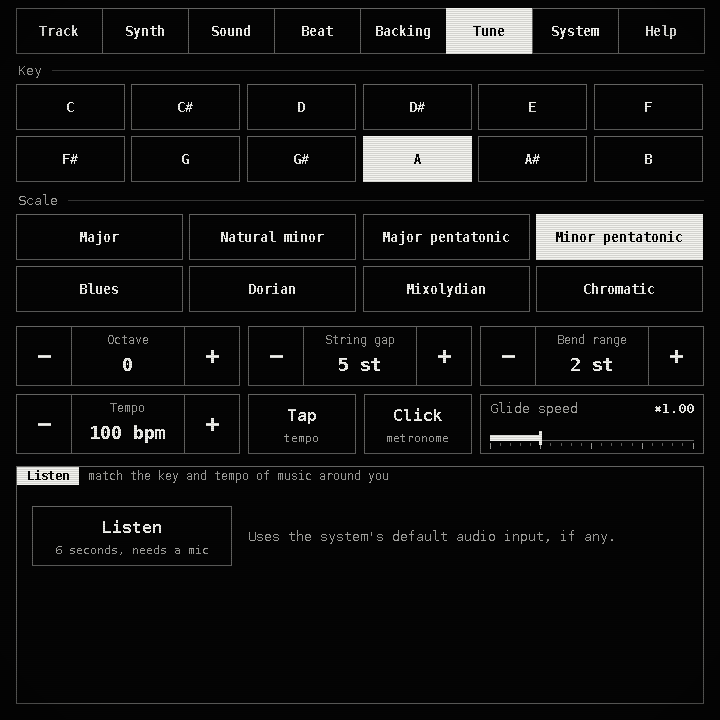
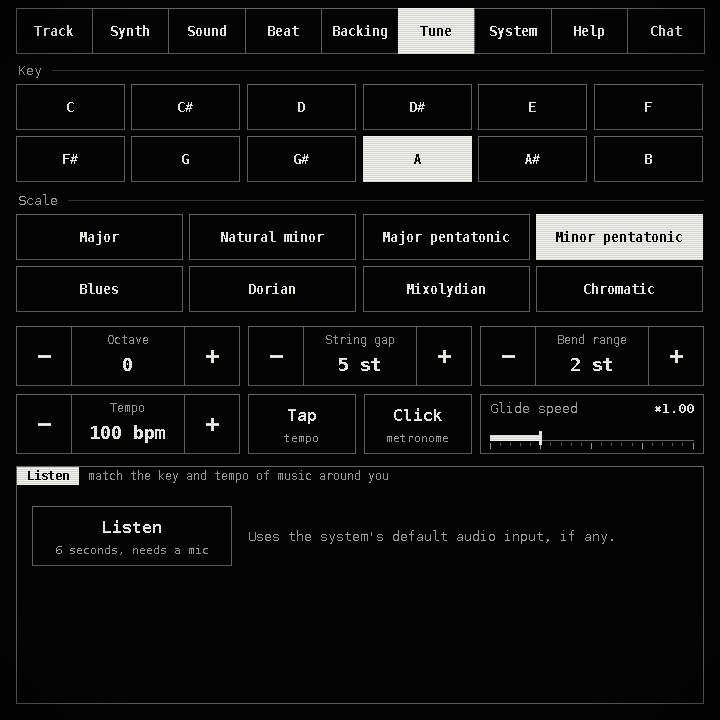
Docs: CONTROL.md, guide chapter on chat, status for 0.10.0, new pictures

Changed region(s): [[0.1528, 0.0, 0.8556, 0.0917], [0.8861, 0.0306, 0.9472, 0.0611], [0.0611, 0.0306, 0.1222, 0.0611]]

diff --git a/docs/CONTROL.md b/docs/CONTROL.md
@@ -1,0 +1,209 @@
+# The control socket
+
+venv-vrequency opens a local Unix socket so an AI copilot (an agent such as Claude Code, through an MCP
+server that speaks this protocol) can play the synth, edit it and chat with the player in the app's Chat
+page. It is **on by default**; start with `vrequency --no-control` to switch it off.
+
+- **Where**: `$XDG_RUNTIME_DIR/vrequency.sock`; if that is not set, `$VREQUENCY_HOME/control.sock` (default
+  `~/vrequency/control.sock`). `$VREQUENCY_CONTROL_SOCKET` overrides both.
+- **Who**: a Unix socket with permissions `0600`: only the same user can connect. There is no network
+  listener of any kind. The file is removed when the app quits. A leftover file from a crashed run is
+  replaced at the next start; a socket something still answers on is never taken over.
+- **How**: newline-delimited JSON, one object per line, in both directions. Up to 8 clients at once. A request
+  line longer than 1 MiB is refused.
+
+```
+-> {"id":1,"cmd":"note","string":1,"degree":2,"dur_ms":400}
+<- {"id":1,"ok":true,"result":{"played":[{"string":1,"midi":57,"hz":220.0,"id":1024}]}}
+-> {"id":2,"cmd":"note","string":9,"degree":0}
+<- {"id":2,"ok":false,"error":"'string' must be between 0 and 2"}
+```
+
+`id` can be any JSON value and is returned unchanged (`null` if the request had none or was not valid JSON).
+Every request is answered, whatever it contains.
+
+**Safety.** Every command runs on the app's GUI thread and reaches the audio thread through the same lock-free
+queue the keyboard uses; the audio thread is never blocked. Every argument is validated (type and range);
+a bad one gets an error and changes nothing. Numbers are never clamped silently except where a command
+says so (`set_param`). Sound goes through the engine's own limits: voice limit of 28, the limiter and soft
+clip stay on the output. Changes are applied by the audio thread a few milliseconds after the reply, so
+`state` read straight after a command may still show the old value.
+
+Strings are numbered **0 = lowest** (the bottom key row), **1 = middle**, **2 = highest**. A *degree* is a
+step of the current scale counted from the string's first key: `0` is the string's first key (`Z`, `A` or
+`Q`), `1` its second, `-1` the note below, `5` can be past an octave. A *midi* note is an exact pitch
+(12 to 120) that ignores the scale. Notes played over the socket are separate from the player's keys on
+the same string: both can sound, and a key pressed on a sounding string slides it, as always.
+
+## Commands
+
+### state
+Everything at a glance: `page`, `sound` (name, `slot` 1-10 or null, `slots`, `favourites`, `params` by key),
+`scale` (name, index, root, octave), `tempo`, `volume`, `looper`, `beat` (playing, rec, kit, `steps` per drum
+as 16 characters), `backing` (playing, mode, style, `chords`, `degrees`), `track` (clips, lanes with placements,
+playing, bars, exporting), `playing`, `voices`, `toast` (the last message the app showed), `chat`
+(`listening`, `last_seq`, `unread`) and `chat_tail` (last ten messages).
+```
+{"id":1,"cmd":"state"}
+```
+
+### note
+Play one note. `string` 0-2 required; exactly one of `degree` (-48..48) or `midi` (12..120); `dur_ms`
+20..30000 (default 500); `velocity` 0..1 (default 1).
+```
+{"id":2,"cmd":"note","string":0,"degree":0,"dur_ms":800}
+{"id":3,"cmd":"note","string":2,"midi":81,"velocity":0.6}
+```
+
+### notes / chord
+Several notes at once. `notes`: a list of objects like `note`'s (each may have its own `dur_ms` and `velocity`;
+defaults at the top level). Or `chord` with `degrees` or `midis`: up to 3 values, put on strings 0, 1, 2 in order.
+```
+{"id":4,"cmd":"notes","notes":[{"string":0,"degree":0},{"string":2,"midi":72}],"dur_ms":600}
+{"id":5,"cmd":"chord","degrees":[0,2,4],"dur_ms":1200}
+```
+
+### slide
+Play `from`, then glide to `to` on the same string (at the sound's own glide time). `string`, `from`, `to`
+required; `unit` `"degree"` (default) or `"midi"`; `ms` 50..30000 total (default 600); `velocity`.
+```
+{"id":6,"cmd":"slide","string":1,"from":0,"to":3,"ms":900}
+```
+
+### release / panic
+`release` lets go of the notes played over the socket (optionally one `string`). `panic` silences everything,
+as `Backspace` does (also stops beat, backing, loop and track).
+```
+{"id":7,"cmd":"release","string":1}
+{"id":8,"cmd":"panic"}
+```
+
+### set_param / get_params
+`set_param`: `name` is a key from `get_params` (`cutoff`, `attack`, `wave1`, `reverbmix`...), `value` is
+**clamped** to the parameter's range (stepped ones rounded); the reply says the value used and whether it was
+clamped. `get_params` lists every parameter with its value, range and default.
+```
+{"id":9,"cmd":"set_param","name":"cutoff","value":1200}
+{"id":10,"cmd":"get_params"}
+```
+
+### sound
+`slot` 1-10, or `name`: a favourite's name, `"random"`, `"mutate"` or `"undo"`.
+```
+{"id":11,"cmd":"sound","slot":2}
+{"id":12,"cmd":"sound","name":"Haze"}
+{"id":13,"cmd":"sound","name":"mutate"}
+```
+
+### save_favourite
+Saves the current sound as a favourite under `name` (1-24 characters).
+```
+{"id":14,"cmd":"save_favourite","name":"Rook's pad"}
+```
+
+### scale
+`name` (major, minor, majpent, minpent, blues, dorian, mixolydian, chromatic, or the full names such as
+"Minor pentatonic") and/or `root` (a note name `A`, `C#`, `Bb`, or 0-11).
+```
+{"id":15,"cmd":"scale","name":"dorian","root":"D"}
+```
+
+### tempo, octave, bend, sustain
+`tempo`: `bpm` 40-240. `octave`: `value` -3..3 or `delta`. `bend`: `value` -1..1 (held until changed), optional
+`ms` to spring back after that long. `sustain`: `on` true/false.
+```
+{"id":16,"cmd":"tempo","bpm":96}
+{"id":17,"cmd":"octave","delta":1}
+{"id":18,"cmd":"bend","value":0.5,"ms":400}
+{"id":19,"cmd":"sustain","on":true}
+```
+
+### loop
+`action`: `record` (the pedal: count-in, record, or finish/overdub), `play`, `stop`, `clear`, `undo`.
+`stop` on a loop that is not playing and `play` with nothing recorded are refused.
+```
+{"id":20,"cmd":"loop","action":"record"}
+```
+
+### backing
+`chords`: a new progression of 1-8 chords, each 1-7 or a numeral `"I"`..`"VII"` (replaces the old one and
+starts it). Or `action`: `play`, `stop`, `clear`, `remove_last`. Optional: `style` (sustain, pulse, arp up,
+arp down, arp up-dn), `seventh` (bool), `beats` per chord 1-8.
+```
+{"id":21,"cmd":"backing","chords":["I","vi",4,5],"style":"pulse"}
+{"id":22,"cmd":"backing","action":"stop"}
+```
+
+### beat
+Any of: `kit` (soft, crunchy, glitchy), `set_step` (one `{drum, step, on}` or a list; `drum` 0-7 or a name:
+kick, snare, hat, openhat, clap, rim, tom, cowbell; `step` 0-15, `on` default true), `hit` (`{drum}` or just
+the drum: plays it now), `action` `play` | `stop` | `clear`.
+```
+{"id":23,"cmd":"beat","kit":"crunchy","set_step":[{"drum":"kick","step":0},{"drum":"snare","step":4}],"action":"play"}
+{"id":24,"cmd":"beat","hit":{"drum":"clap"}}
+```
+
+### track
+`action`: `keep` (copies the live beat, chords and loop to the shelf), `place` (`clip` index, `bar` 0-63,
+optional `lane` 0-3 = beat, chords, loop A, loop B), `play`, `stop`, `clear` (empties the track), `export`
+(asynchronous: replies at once with the `path` the WAV will have; it is complete when `state.track.exporting`
+is false).
+```
+{"id":25,"cmd":"track","action":"keep"}
+{"id":26,"cmd":"track","action":"place","clip":0,"bar":0}
+{"id":27,"cmd":"track","action":"export"}
+```
+
+### page
+`name`: track, synth, sound, beat, backing, tune, system, help or chat.
+```
+{"id":28,"cmd":"page","name":"chat"}
+```
+
+### session
+`action` save or load, `name` (letters, digits, `-`, `_`), in the app's sessions folder.
+```
+{"id":29,"cmd":"session","action":"save","name":"jam-1"}
+```
+
+### screenshot
+Writes a 720x720 PNG of the screen to the temporary folder and returns its `path`. The newest six are kept.
+```
+{"id":30,"cmd":"screenshot"}
+```
+
+## Chat
+
+Messages have a `seq` (1, 2, 3...), `from`, `text`, `kind` (`say`, `tip`, `ask`), `ts` (ms since the epoch) and
+`user` (true when the player typed it, who is shown as `you`). The last 200 are kept in the state file, so the
+history survives restarts and the numbering carries on.
+
+### chat_say
+`text` 1-2000 characters; `from` (default `"rook"`, up to 16 characters; `"you"` is the player and refused);
+`kind` `say` (default), `tip` or `ask`. Shows on the Chat page and, while the player is on another page, in a
+two-line ticker at the bottom of the screen for a few seconds (it takes no key and no touch).
+```
+{"id":31,"cmd":"chat_say","from":"claude","kind":"ask","text":"Want a slower tempo?"}
+```
+
+### chat_poll
+`since` (default 0), optional `limit`. Returns every message with `seq` > `since`, from both sides, and
+`last_seq`. Counts as "the copilot is listening" for 45 s.
+```
+{"id":32,"cmd":"chat_poll","since":12}
+```
+
+### chat_wait
+Long poll: `since`, `timeout_ms` 0-30000 (default 25000). The reply comes as soon as a message **typed by the player**
+with `seq` > `since` exists, with `timed_out` false; otherwise at the timeout with `timed_out` true and an
+empty `messages` list. Nothing else is blocked meanwhile, and several clients can wait at once.
+```
+{"id":33,"cmd":"chat_wait","since":14,"timeout_ms":20000}
+```
+While any chat_wait is pending, the Chat page says `copilot: listening`.
+
+## Errors you may see
+
+`bad JSON: ...`, `a request must be a JSON object`, `missing 'cmd'`, `unknown command 'x'`,
+`'string' must be between 0 and 2`, `'x' must be a number` / `a string` / `true or false`, `missing 'x'`,
+`request line too long`. A refused request changes nothing.

diff --git a/docs/STATUS.md b/docs/STATUS.md
@@ -1,12 +1,12 @@
 # Status — what works, what is unproven, what is missing
 
-Version 0.9.0, 2026-11-13 (0.8.1 plus a lane mixer on the Track page: a level, mute, solo and meter for each of the four lanes, saved with the track and heard in an export. 0.8.1 was 0.8.0 plus a fix: the scope no longer takes a whole processor core to draw while sound plays. 0.8.0: 0.7.0 plus a sound picker on the Track page: a placed clip can play as one of eighteen new Keys, Guitar and Bass sounds, any of your own sounds or another kit, with an octave shift. 0.7.0 was 0.6.0 plus a Track page for arranging kept beats, chords and loops on lanes, with chop, cycle and export; the tabs now start with Track and the Play page is called Synth. 0.6.0 added the Beat page and Play last, 0.5.0 five sine-based "dream" sounds, 0.4.0 the Glitch touch-pad mapping). "Tested" below means an automated test measured it; it does **not** mean a
+Version 0.10.0, 2026-11-13 (0.9.0 plus a Chat page and a control socket, so an AI copilot can play and edit the app live and talk with the player. 0.9.0 was 0.8.1 plus a lane mixer on the Track page: a level, mute, solo and meter for each of the four lanes, saved with the track and heard in an export. 0.8.1 was 0.8.0 plus a fix: the scope no longer takes a whole processor core to draw while sound plays. 0.8.0: 0.7.0 plus a sound picker on the Track page: a placed clip can play as one of eighteen new Keys, Guitar and Bass sounds, any of your own sounds or another kit, with an octave shift. 0.7.0 was 0.6.0 plus a Track page for arranging kept beats, chords and loops on lanes, with chop, cycle and export; the tabs now start with Track and the Play page is called Synth. 0.6.0 added the Beat page and Play last, 0.5.0 five sine-based "dream" sounds, 0.4.0 the Glitch touch-pad mapping). "Tested" below means an automated test measured it; it does **not** mean a
 person heard it or pressed a physical key. Those checks are listed separately.
 
 ## Working and covered by automated tests
 
 `vrequency_tests` renders audio offline and measures it (517 checks). `vrequency --selftest` drives the real
-application with real key and touch events while the real audio thread runs (173 checks).
+application with real key and touch events while the real audio thread runs (227 checks).
 
 | Area | What the tests establish |
 |---|---|
@@ -28,6 +28,7 @@ application with real key and touch events while the real audio thread runs (173
 | Sound picker (app) | `I` and the Sound button open it on the kind the clip plays now; arrows change kind and stop at the ends; number keys and cells pick; a pick is one undo step and leaves the recorded sound in the clip; picking while nothing plays starts the clip alone, it is heard, and the beat lane stays silent meanwhile; a bass pick drops an octave; arrows and the stepper move the octave and stop at two; Only this one / Every; Backspace and As recorded; `Space` stops Hear; `Enter` and Done close it and stop the clip; a beat clip gets only the kits and no octave; undo and redo; picks read back the same from the state file |
 | Lane mixer (engine) | A new track plays every lane as recorded; a lane at 40 comes out a quarter of the level (12 dB down) for a loop lane, the chords lane and the beat lane alike, measured on the output, while the other lanes stay as they were; a muted lane is gone and its meter still; a soloed lane is the only one heard, and a muted lane stays quiet even when soloed; level 100 is 1.56 times (about 4 dB); every lane's meter moves while it plays |
 | Lane mixer (app) | `X` opens it in place of the tools; number keys and Left/Right choose a lane; Up/Down move the level by five; `0` puts it back to 80; M mutes and S solos; a fader drag sets the level and is one undo step; Reset; undo and redo of every change; `Esc` closes it; opening the sound picker closes it; the mix reads back the same from the state file |
+| Control socket and chat | The socket starts, is `0600`, replaces a stale file from a crashed run and refuses to take over a live one; two clients at once; replies carry the request id. A note over the socket has the right pitch (measured with the scope on the output: string 0 degree 0 = 110 Hz, a degree on the middle string follows the scale, MIDI 81 = 880 Hz); it lets go by itself after its duration; the player's own keys slide it; panic empties every voice; a slide moves the pitch. 105 requests cover every command with a good and a refused argument (note, notes, chord, slide, release, panic, set_param, get_params, sound, save_favourite, scale, tempo, octave, bend, sustain, loop, backing, beat, track including a keep/place/play/export round trip, page, session, screenshot, the chat commands); state shows what they did; the export writes a WAV; the screenshot is a 720x720 PNG. Chat: chat_say shows on the page, in the ticker on another page, as an unread count and in `state`; letters typed with synthetic key events fill the input line and play no string, Backspace edits, Enter (or the Send button) sends; a pending chat_wait is answered the moment the message is sent (15 ms measured) while other clients are served, and times out with an empty list; chat_poll returns both directions; `Ctrl`+`Y` goes to Chat and back, `Esc` leaves; the history is in the state file and only the last 200 are kept. Hostile input: garbage, a JSON array, a 40,000-digit number, a 2 MiB line, deeply nested JSON, several requests in one write, a client that disconnects mid-line, and 7,623 requests with one wrongly typed or out-of-range argument for every command: all answered, none crashed, no events dropped, output inside full scale. The socket file is removed on stop |
 | Drawing and saving | With three notes sounding, every page redraws well inside a 40 ms frame (slowest in the test: Synth, about 11 ms); a kept clip is in the state file 2.5 s later without anything else being pressed |
 | Listening back | Play last starts the system player on the newest recording and the same button stops it (the test does not check what comes out of the speaker) |
 | Live control | XY filter and vibrato mappings, pitch bend, sustain; touch on a string plays and slides (synthetic touch events) |
@@ -36,7 +37,7 @@ application with real key and touch events while the real audio thread runs (173
 | Key handling | Auto-repeat does not retrigger; no input events dropped |
 | Listen | Key and tempo found on synthetic test music; silence is refused rather than guessed; noise gives low confidence |
 
-Implemented but with **no automated test**: loops following a tempo change, bends and XY moves inside loops,
+Implemented but with **no automated test**: the scroll marker and finger-drag scrolling of the Chat history, typing characters other than letters and digits (the test sends keys without text), the ticker's two-line wrap on long messages (drawn on two pictures only), `--no-control`, the real default socket path in `$XDG_RUNTIME_DIR`, loops following a tempo change, bends and XY moves inside loops,
 voice stealing at the 28-voice limit (benchmarked for speed, not checked for clicks), releasing all notes
 when the window loses focus, the scope's frequency readout, trigger and auto-ranging (checked by eye on rendered pictures only), the Glitch colour streaks (seen on one rendered picture only), Glitch moves replayed from inside a loop, pulse and up/down arpeggio styles, the pads lighting up when a drum sounds, the beat while a loop is recording or playing, old `keymap.json` files picking up the new key bindings, the on-screen sound editor's individual controls. On the Track page: the picture of each clip (beat dots, chord names, note dashes) and the moving play line (looked at on two rendered pictures only), the sound picker's Synth kind (your slots and favourites) and its page-turning cell, Hear while the whole track is already playing, choosing another clip while the picker is open, picked sounds inside an exported file and inside a session file (only the state file is checked), following the play line past bar 8, the shelf's second page, keeping more than 40 clips, dragging a loop between Loop A and Loop B, sound changes and touch-pad moves recorded inside a loop clip, editing the track while it plays, what an exported file sounds like (only its length and that it is not silent are checked), and Play last on an exported file.
 
@@ -56,6 +57,13 @@ when the window loses focus, the scope's frequency readout, trigger and auto-ran
 | Output latency of the built-in speaker | about 200 ms (Bluetooth; see HARDWARE.md) |
 
 ## Needs a person — NOT verified
+
+Added in 0.10.0 (the copilot):
+- **Typing feel on the Q20.** Typing was tested with synthetic key events only. Whether the real keyboard types
+  comfortably (Shift for capitals, the symbol layer for digits and punctuation, key repeat), and whether `Ctrl`+`Y` reaches the app, is unproven.
+- **The ticker at arm's length.** Two lines of 13 px raster text at the bottom of the screen for seven seconds: is it readable
+  without stopping playing, and is covering the bottom row of buttons acceptable?
+- **A real copilot.** The protocol was exercised only by the self-test's own client. The MCP server written by someone else has not been tried against it.
 
 Nobody has yet confirmed any of these. See the test list at the end of this file.
 

diff --git a/README.md b/README.md
@@ -24,7 +24,7 @@ its own volts/div and time/div (they follow the signal and never change the pitc
 frequency and level. Touching it is the X-Y sound control.
 
 More pictures: [Track](docs/shots/10-track.png), [Chop](docs/shots/11-chop.png), [Picking a sound for a clip](docs/shots/12-sound.png), [Mixer](docs/shots/13-mixer.png), [Sound](docs/shots/1-sound.png), [Backing](docs/shots/2-backing.png), [Tune](docs/shots/3-tune.png),
-[System](docs/shots/4-system.png), [Help](docs/shots/5-help.png), [Key test](docs/shots/6-keytest.png), [Glitch](docs/shots/7-glitch.png), [Beat](docs/shots/9-beat.png).
+[System](docs/shots/4-system.png), [Help](docs/shots/5-help.png), [Key test](docs/shots/6-keytest.png), [Glitch](docs/shots/7-glitch.png), [Beat](docs/shots/9-beat.png), [Chat with a copilot](docs/shots/14-chat.png).
 
 ## Play it in ten seconds
 
@@ -74,6 +74,8 @@ The full how-to is [docs/GUIDE.md](docs/GUIDE.md). A short version is built in: 
   shift, for every copy of the clip or just one. **Mix** gives each lane a level, a mute, a solo and a
   meter, saved with the track and heard in an export. Keys follow the usual shortcuts of desktop music programs (`Ctrl`+`T` split,
   `Ctrl`+`J` join, `Ctrl`+`R` repeat, `Ctrl`+`X` `C` `V`, `Ctrl`+`Z`, `Space` play).
+- **Copilot**: a Chat tab and a local control socket let an AI agent play and edit the app live while you talk to it
+  (`Ctrl`+`Y` jumps to the chat). Local Unix socket only, off with `--no-control`. See [docs/CONTROL.md](docs/CONTROL.md).
 - **Looper**: event-based (notes, slides, bends, XY moves, sound changes), count-in, bar-snapped,
   up to 64 bars, six layers, undo, stop/start, clear. Each layer keeps its own sound. Follows tempo.
 - **Saving**: sounds, favourites, sessions (settings + sounds + backing + loops + beat + track), WAV export and play-back of the last recording
@@ -99,7 +101,7 @@ Tests:
 ```bash
 ./build/vrequency_tests                                   # 517 engine checks (offline rendering)
 ./build/vrequency_tests --bench                           # CPU at full polyphony
-QT_QPA_PLATFORM=offscreen ./build/vrequency --selftest    # 173 checks through the real app + audio thread
+QT_QPA_PLATFORM=offscreen ./build/vrequency --selftest    # 227 checks through the real app + audio thread
 QT_QPA_PLATFORM=offscreen ./build/vrequency --audio null --render docs/shots   # redraw the pictures
 ```
 
@@ -109,8 +111,9 @@ QT_QPA_PLATFORM=offscreen ./build/vrequency --audio null --render docs/shots   #
 |---|---|
 | `core/` | The engine, no GUI or device dependencies: `voice.h` (synth voice), `fx.h`, `scale.h`, `instrument.*` (strings, backing, looper, mixer), `drums.*` (the three kits), `track.cpp` (clips, lanes, chopping, picked sounds, track playback), `sounds.*` (the Keys, Guitar and Bass shelf), `presets.*` (sounds, randomiser), `analysis.*` (key/tempo) |
 | `audio/` | PipeWire backend (C), ALSA fallback, silent clock |
-| `app/` | Qt 6 interface, one custom-painted widget: `mainwindow.*` (pages, input, actions), `trackpage.cpp` (the Track page), `scope.cpp` (the oscilloscope), `palette.h`, key map, files, self-test |
+| `app/` | Qt 6 interface, one custom-painted widget: `mainwindow.*` (pages, input, actions), `trackpage.cpp` (the Track page), `scope.cpp` (the oscilloscope), `chatpage.cpp` (the Chat page and ticker), `control.*` (the control socket), `palette.h`, key map, files, self-test |
 | `tests/` | Engine tests and benchmark |
+| `docs/CONTROL.md` | The control-socket protocol: every command with an example |
 | `docs/HARDWARE.md` | What was found on this Hackberry and what it means |
 | `docs/STATUS.md` | What is tested, what still needs a person, known limits, and a five-minute test list |
 

diff --git a/docs/GUIDE.md b/docs/GUIDE.md
@@ -1,6 +1,6 @@
 # How to use venv-vrequency
 
-A guide to playing the synth, page by page. Everything here describes version 0.9.0 with the
+A guide to playing the synth, page by page. Everything here describes version 0.10.0 with the
 default key bindings.
 
 The short version is also built into the app: press `Ctrl`+`H`, or tap Menu and then the Help tab.
@@ -22,6 +22,7 @@ The short version is also built into the app: press `Ctrl`+`H`, or tap Menu and 
 13. [System page](#13-system-page)
 14. [All the keys](#14-all-the-keys)
 15. [When something is wrong](#15-when-something-is-wrong)
+16. [Chat with a copilot](#16-chat-with-a-copilot)
 
 ## 1. Start and quit
 
@@ -553,6 +554,7 @@ Commands, with `Ctrl` held:
 | `J` | Beat play / stop | `W` | Play last recording |
 | `I` | Beat Rec on / off | `Q` | Quit |
 | `H` | Help | `Space` | Track play / stop |
+| `Y` | Chat: jump to it and back | | |
 
 On the Beat page only:
 
@@ -595,3 +597,31 @@ bluetoothctl devices
 ```bash
 bluetoothctl connect XX:XX:XX:XX:XX:XX
 ```
+
+## 16. Chat with a copilot
+
+![The Chat page](shots/14-chat.png)
+
+The last tab, **Chat**, is a conversation between you and an AI copilot (for example the agent Rook, or
+Claude Code) that is connected to the app through its control socket. It can play notes, change the sound,
+set up a beat or a backing and look at the screen while you talk. The commands it uses are in
+[CONTROL.md](CONTROL.md). The socket is a local file only your user can open; `vrequency --no-control`
+switches it off, and then the Chat page simply stays quiet.
+
+- **Type** on the keyboard: on this page letters type instead of playing strings. `Enter` sends,
+  `Backspace` deletes a letter, `Up` / `Down` (or a finger drag on the history) scroll, `Esc` leaves the page.
+  The **Send** button sends by touch. `Tab` and the `Ctrl` commands still work.
+- **Hotkey**: `Ctrl`+`Y` jumps to Chat from any page, and the same keys take you back to where you were.
+  (It is bound as `chat` in `keymap.json`; the other `Ctrl` letters are unchanged.)
+- The copilot's messages have a white tag with its name; yours have an outlined `YOU`. A `?` after the
+  name means it is asking you something, `tip` marks a suggestion.
+- **The ticker**: when the copilot says something while you are on another page, the message appears in a
+  two-line strip at the bottom of the screen for about seven seconds, and the Chat tab shows how many are
+  unread (`Chat 2`). It never takes the keyboard or touch away, so you can keep playing; it does cover the
+  bottom row of controls while it shows.
+- **`copilot: listening`** at the top right means a copilot is connected and waiting for you
+  (it has asked for your messages in the last 45 seconds, or is waiting right now); otherwise it says
+  `copilot: not connected`. Messages you type then wait for it: they are kept.
+- The last 200 messages are kept between runs.
+
+![A message arriving while playing](shots/15-ticker.png)
